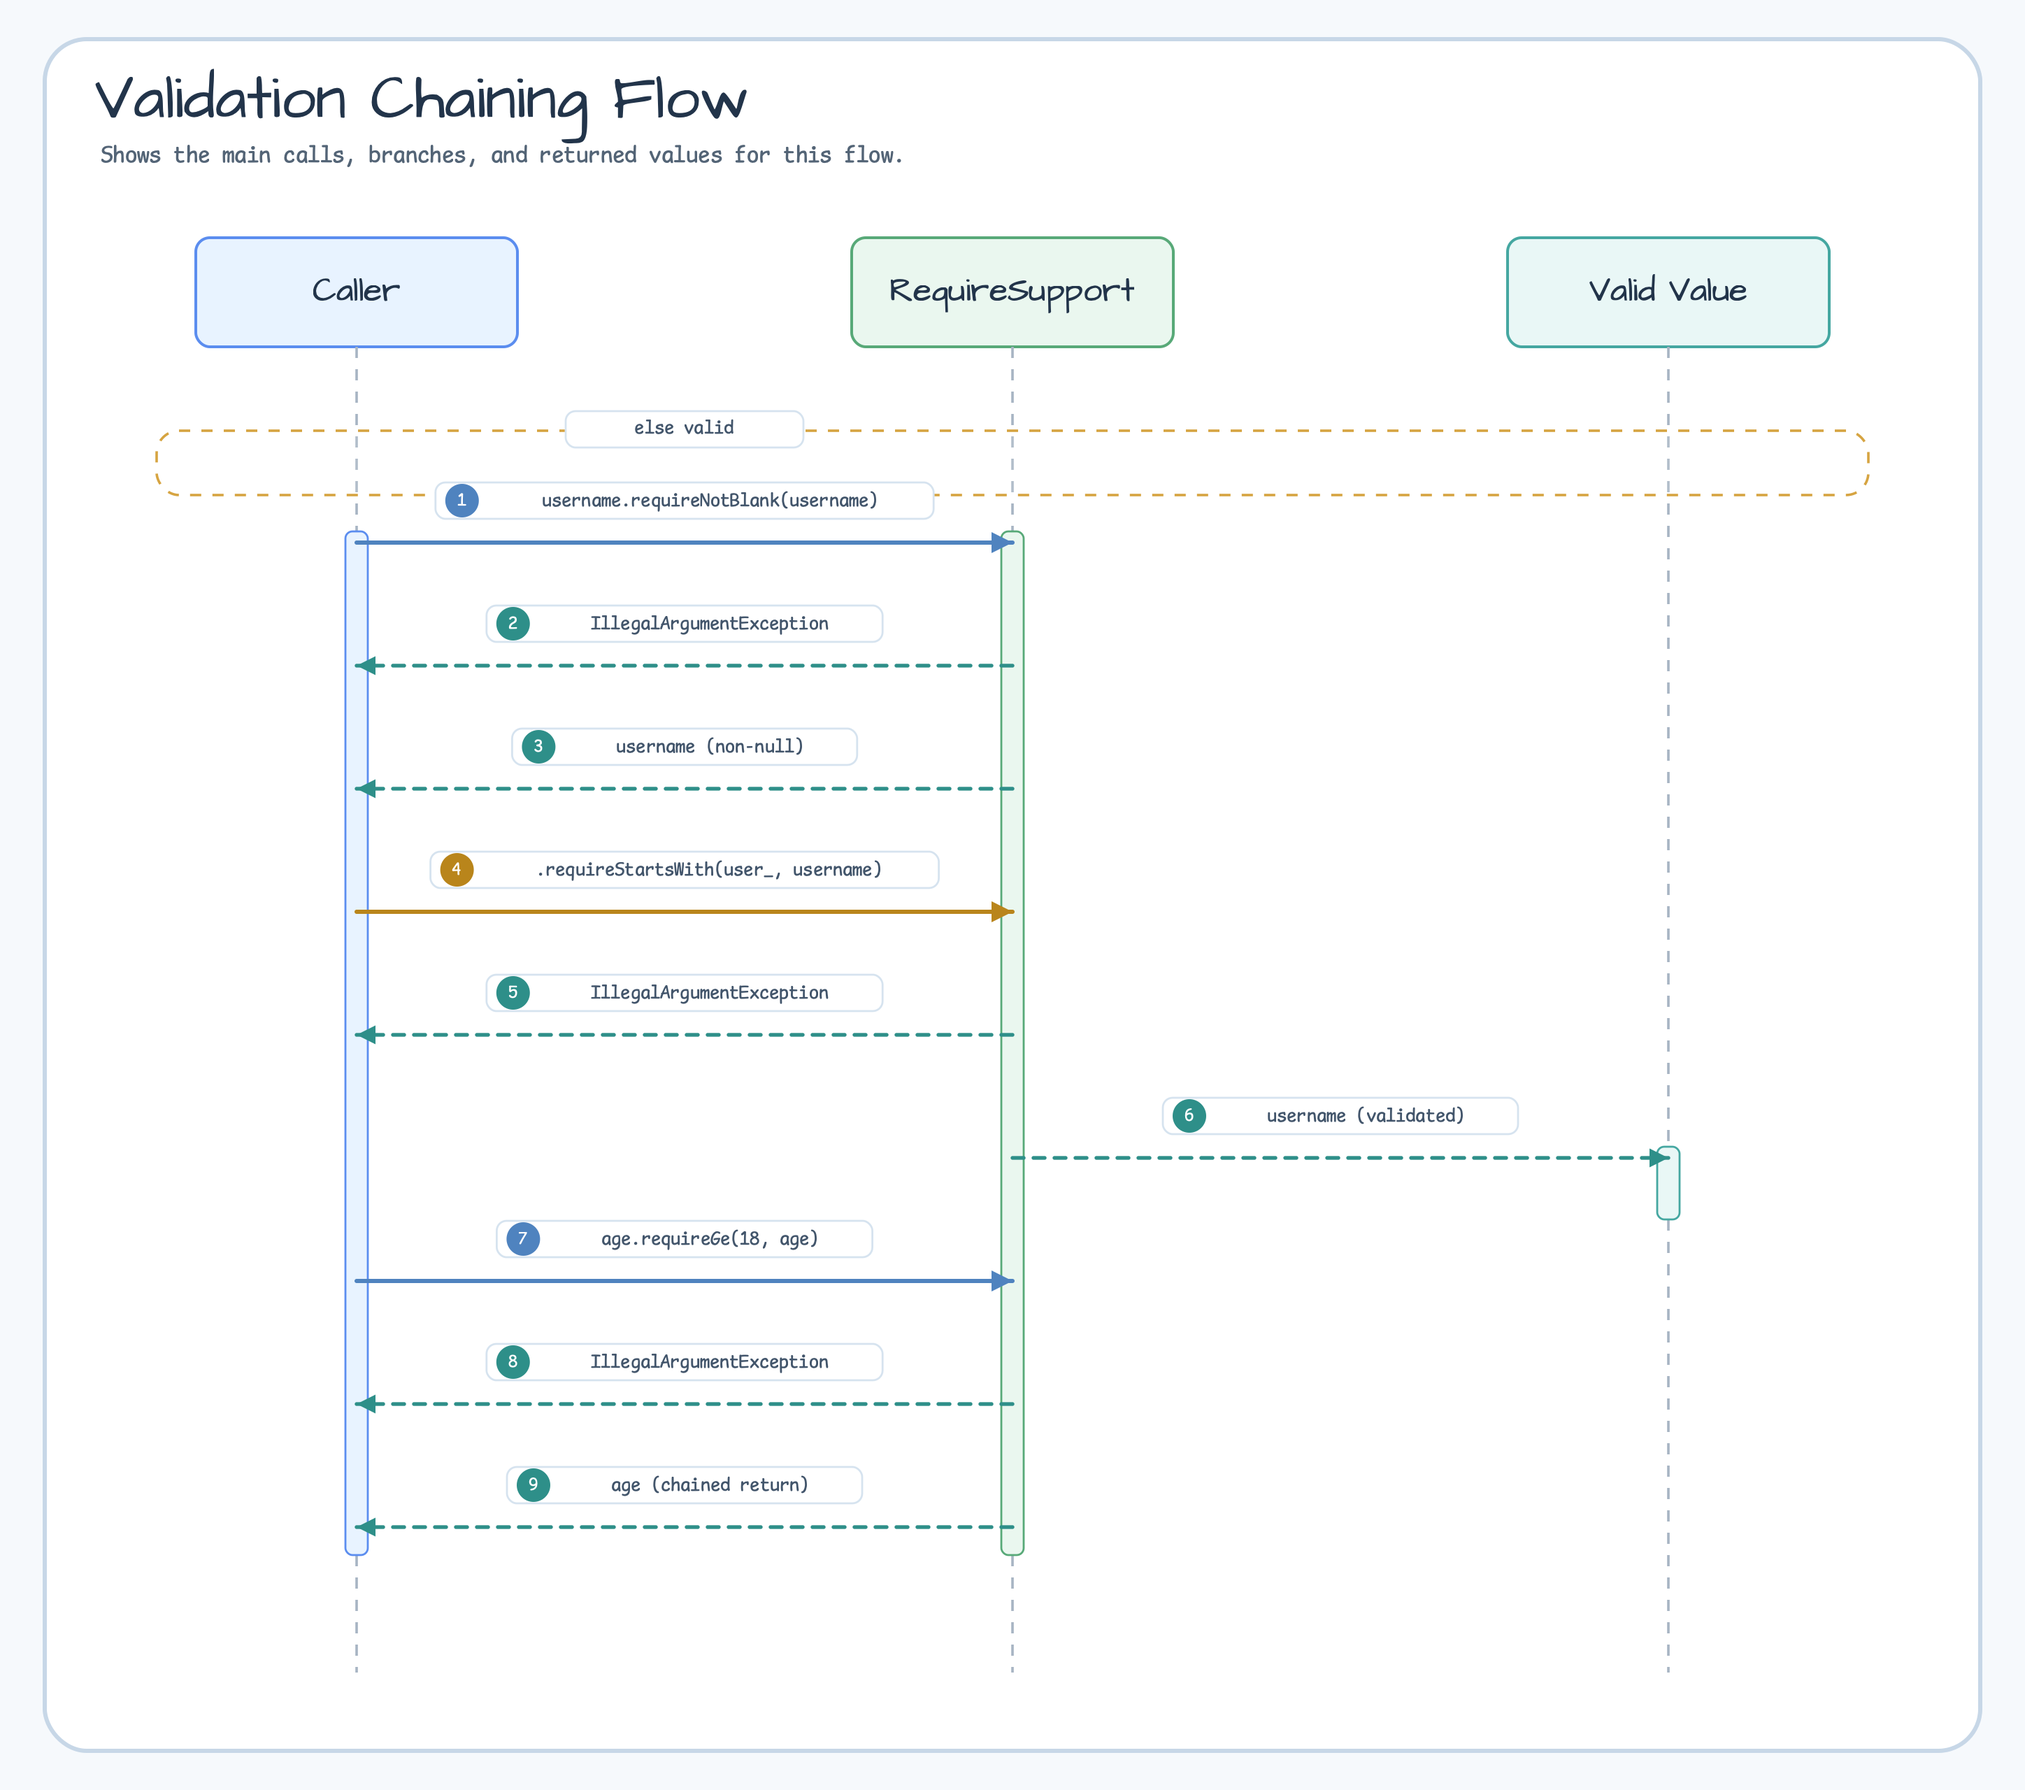
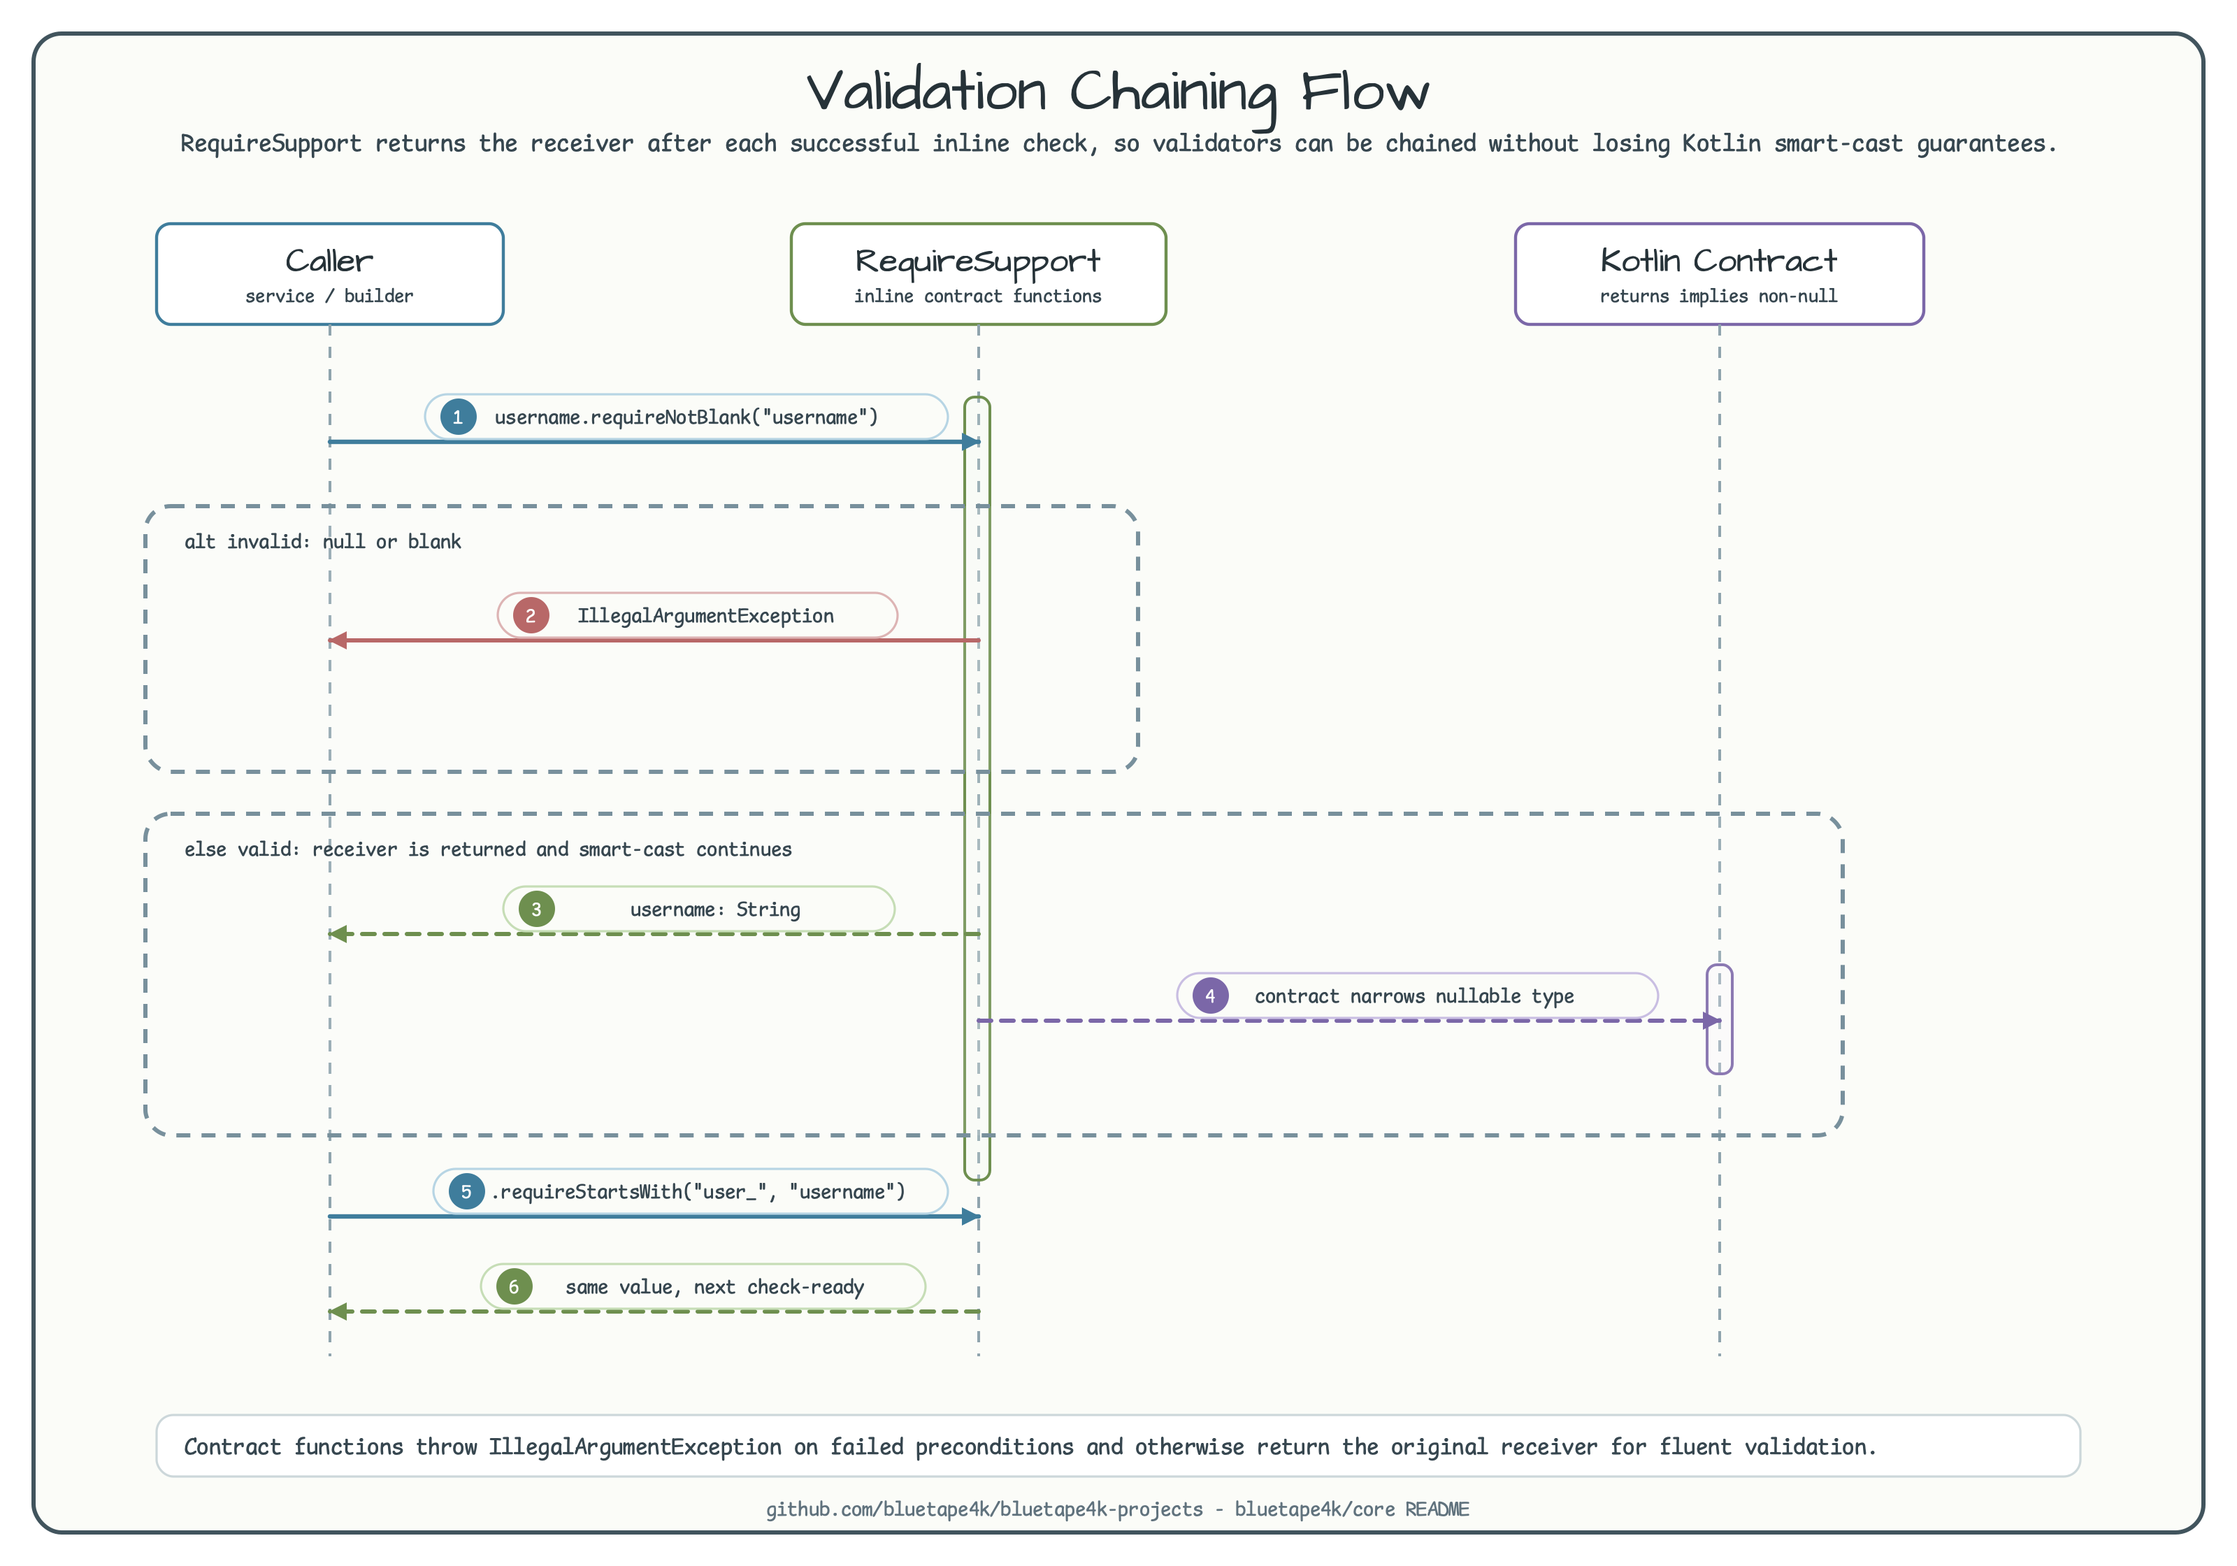
docs: clean core validation diagrams
The core README diagrams should explain validation chaining and module responsibilities without old generic sequence text, tiny stroke-width arrows, or label/connector overlap.

Constraint: bluetape4k-core is the shared foundation for RequireSupport contracts, codec utilities, ranges, collections, value objects, concurrency, and Java time helpers.

Rejected: Keeping the old validation sequence subtitle and stroke-width markers | They leaked generator wording and made arrows inconsistent with the current diagram style.

Confidence: high

Scope-risk: narrow

Directive: Keep core diagrams source-backed; sequence labels must sit clear of message lines, and arrows must use userSpace markers with visible line-colored heads.

Tested: CairoSVG rendered bluetape4k-core diagram 01, diagram 02, and sequence 01; visually inspected PNGs for text fit, label/line clearance, arrow readability, and margins; SVG XML, forbidden wording, markerUnits, sequence opacity, README image links, and git diff --check passed.

Not-tested: Gradle build not run because this is README/image-only documentation work.

diff --git a/bluetape4k/core/README.ko.md b/bluetape4k/core/README.ko.md
@@ -8,19 +8,19 @@ Kotlin Backend 개발을 위한 핵심 유틸리티 라이브러리입니다. Bl
 
 ### 모듈 구성 개요
 
-![core Architecture diagram](../../docs/images/readme-diagrams/bluetape4k-core-diagram-01.png)
+![bluetape4k-core 모듈 구성 개요 다이어그램](../../docs/images/readme-diagrams/bluetape4k-core-diagram-01.png)
 
 ---
 
 ### 클래스 다이어그램
 
-![Core Class Structure diagram](../../docs/images/readme-diagrams/bluetape4k-core-diagram-02.png)
+![bluetape4k-core 핵심 클래스 구조 다이어그램](../../docs/images/readme-diagrams/bluetape4k-core-diagram-02.png)
 
 ---
 
 ### Validation 체이닝 흐름
 
-![Validation diagram](../../docs/images/readme-diagrams/bluetape4k-core-sequence-01.png)
+![RequireSupport Validation 체이닝 흐름 다이어그램](../../docs/images/readme-diagrams/bluetape4k-core-sequence-01.png)
 
 ## 주요 기능
 
